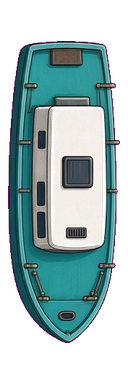
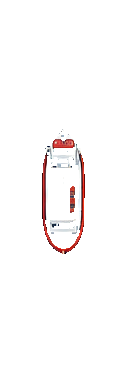
Swap in Port 2D harbor art lock
Install the Port 2D board, boat states, UI art, and references while preserving the L1 path-clear placement.

diff --git a/public/assets/ASSET_SPECS.md b/public/assets/ASSET_SPECS.md
@@ -1,29 +1,28 @@
-# Path Out Harbor — TOP-DOWN art lock
+# Path Out Harbor — Port 2D art lock
 
-**Perspective:** TRUE TOP-DOWN ortho — NOT isometric.  
-**Screen:** 1080×1920  
-**Exits:** Right = +X (screen right). Down = +Y (screen down).
+**Source:** Christoffer Port 2D sheet (`port2d_sheet.png`) — ships chroma-keyed to true RGBA.  
+**Perspective:** TRUE TOP-DOWN ortho. Exits Right=+X, Down=+Y.
 
-## Ortho grid
+## Ortho grid (unchanged from topdown)
 | Constant | Value |
 |---|---|
 | TILE | **128** |
 | GRID_X | **188** |
 | GRID_Y | **460** |
 | Cell (c,r) | `(GRID_X + c*TILE, GRID_Y + r*TILE)` |
-| Dock top Y | 332 |
-| Dock left X | 60 |
-| Frame | (24,296)–(992,1264) |
 
-## Boats
-| ID | H×W | RIGHT px | DOWN px |
-|---|---|---|---|
-| A_skiff | 1×2 | 256×128 | 128×256 |
-| B_cabin | 1×3 | 384×128 | 128×384 |
-| C_ferry | 2×3 | 384×256 | 256×384 |
-| D_tug | 2×4 | 512×256 | 256×512 |
+## Boat map (sheet component IDs)
+| ID | Sheet pair (Up, Down) | Visual | H×W | RIGHT px | DOWN px |
+|---|---|---|---|---|---|
+| A_skiff | 28/29 | rowboat | 1×2 | 256×128 | 128×256 |
+| B_cabin | 26/27 | passenger/cabin | 1×3 | 384×128 | 128×384 |
+| C_ferry | 18/19 | ferry | 2×3 | 384×256 | 256×384 |
+| D_tug | 14/15 | medium cargo (2×4 fit) | 2×4 | 512×256 | 256×512 |
 
-`right` bow = +X. `down` = 90° CW from right (bow = +Y).
+Orientation:
+- `down` = sheet Down cut
+- `right` = sheet Down rotated **90° CCW** (bow → screen-right)
+- jam = desat + lock_x overlay
 
 ## Level 1 (`mock_with_boats.png`)
 | Boat | State | Facing | Col | Row | Pixel | Size |
@@ -33,7 +32,11 @@
 | C_ferry | jam | right | 0 | 3 | (188,844) | 384×256 |
 | D_tug | free | right | 2 | 4 | (444,972) | 512×256 |
 
+## Level 1 path-clear lock
+A occupies cols 4–5 and is free; B occupies cols 1–3 and is jammed behind A. Keep this runtime layout; do not use the source-sheet mock coordinates above.
+
+## Board extras from Port pack
+Pier cuts, lighthouse, buoys, bollard composited onto ortho board.
+
 ## Undo
 (56, 1680, 196, 1820)
-
-Also see `mock_axis_proof.png` — same boat facing right vs down on ortho grid.
